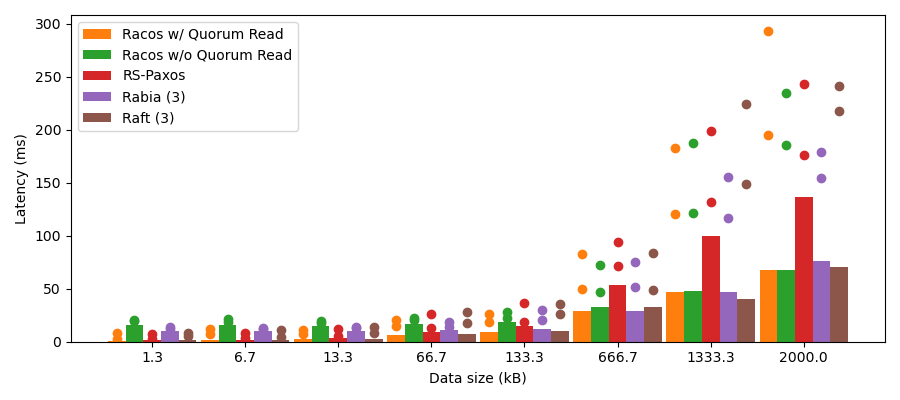
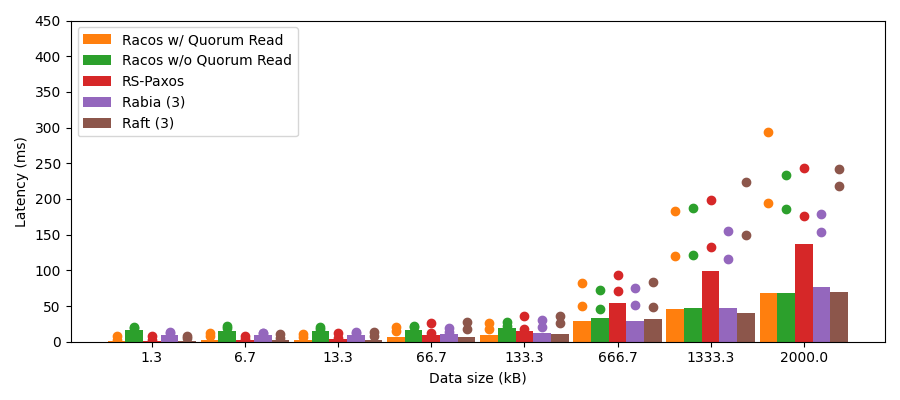
plots for new tests

diff --git a/plotting.py b/plotting.py
@@ -100,6 +100,7 @@ def data_size_discrete_all_read() -> None:
     pyplot.plot(x_axis + ALG_VANITY[alg][1], group['p95_latency'] / 1000, marker = 'o', linestyle = '', color = ALG_VANITY[alg][0])
     pyplot.plot(x_axis + ALG_VANITY[alg][1], group['p99_latency'] / 1000, marker = 'o', linestyle = '', color = ALG_VANITY[alg][0])
   pyplot.xticks(x_axis, ['1.3', '6.7', '13.3', '66.7', '133.3', '666.7', '1333.3', '2000.0'])
+  pyplot.ylim(top = 450)
   pyplot.xlabel('Data size (kB)')
   pyplot.ylabel('Latency (ms)')
   pyplot.legend(handles = BAR_LEGEND_READ, loc = 'upper left')
@@ -230,6 +231,7 @@ def data_size_light_all_read() -> None:
     pyplot.plot(x_axis + ALG_VANITY[alg][1], group['p95_latency'] / 1000, marker = 'o', linestyle = '', color = ALG_VANITY[alg][0])
     pyplot.plot(x_axis + ALG_VANITY[alg][1], group['p99_latency'] / 1000, marker = 'o', linestyle = '', color = ALG_VANITY[alg][0])
   pyplot.xticks(x_axis, ['1.3', '6.7', '13.3', '66.7', '133.3', '666.7', '1333.3', '2000.0'])
+  pyplot.ylim(top = 450)
   pyplot.xlabel('Data size (kB)')
   pyplot.ylabel('Latency (ms)')
   pyplot.legend(handles = BAR_LEGEND_READ, loc = 'upper left')
@@ -711,4 +713,3 @@ def threads_light_half_write_half_read() -> None:
   pyplot.legend(handles = LINE_LEGEND_READ, loc = 'upper right')
   pyplot.tight_layout()
   pyplot.savefig('plots/threads-light-half_write_half_read/throughput-p99_latency-half_write_half_read-light.png')
-

diff --git a/run_tests.py b/run_tests.py
@@ -31,7 +31,7 @@ from helpers.encoding import config_to_str, ip_lister
 from helpers.execute import git_interact, remote_execute_async, remote_execute_sync
 from helpers.reset_nodes import reset_delay_packets_cpus, reset_nodes
 
-COUNTS : typing.List[str] = ['16000', '14000', '12000', '10000', '8000', '6000', '4000', '2000'] # sometimes nodes will run out of space and run into issues, adjust these numbers to alleviate these issues and calibrate the lengths of tests
+COUNTS : typing.List[str] = ['8000', '7000', '6000', '5000', '4000', '3000', '2000', '1000'] # sometimes nodes will run out of space and run into issues, adjust these numbers to alleviate these issues and calibrate the lengths of tests
 
 LINE_PATTERN : re.Pattern = re.compile(r'TOTAL.+')
 OPS_PATTERN : re.Pattern = re.compile(r'OPS: \d+\.\d')
